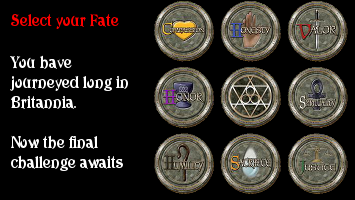
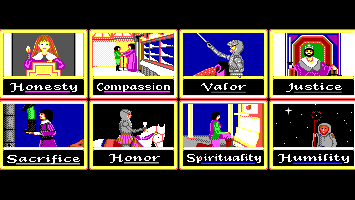
New select class

diff --git a/web/js/SelectClass.js b/web/js/SelectClass.js
@@ -8,28 +8,24 @@ SelectClass.prototype.step = function(){
 	if (game.getKeyPressed(13) || game.getMouseButtonPressed()){
 		var mouse = game.mouse;
 		
-		if (game.mouse.a >= 154 && game.mouse.a < 214 && game.mouse.b >= 1){
-			if (game.mouse.b < 61){
-				playerS.setVirtue("Compassion");
-			}else if (game.mouse.b >= 67 && game.mouse.b < 127){
-				playerS.setVirtue("Honor");
-			}else if (game.mouse.b >= 133 && game.mouse.b < 193){
-				playerS.setVirtue("Humility");
-			}
-		}else if (game.mouse.a >= 221 && game.mouse.a < 280 && game.mouse.b >= 1){
-			if (game.mouse.b < 61){
+		if (game.mouse.b >= 28 && game.mouse.b < 100){
+			if (game.mouse.a <= 88)
 				playerS.setVirtue("Honesty");
-			}else if (game.mouse.b >= 133 && game.mouse.b < 193){
-				playerS.setVirtue("Sacrifice");
-			}
-		}else if (game.mouse.a >= 288 && game.mouse.a < 347 && game.mouse.b >= 1){
-			if (game.mouse.b < 61){
+			else if (game.mouse.a <= 178)
+				playerS.setVirtue("Compassion");
+			else if (game.mouse.a <= 268)
 				playerS.setVirtue("Valor");
-			}else if (game.mouse.b >= 67 && game.mouse.b < 127){
-				playerS.setVirtue("Spirituality");
-			}else if (game.mouse.b >= 133 && game.mouse.b < 193){
+			else
 				playerS.setVirtue("Justice");
-			}
+		}else if (game.mouse.b >= 100 && game.mouse.b < 170){
+			if (game.mouse.a <= 88)
+				playerS.setVirtue("Sacrifice");
+			else if (game.mouse.a <= 178)
+				playerS.setVirtue("Honor");
+			else if (game.mouse.a <= 268)
+				playerS.setVirtue("Spirituality");
+			else
+				playerS.setVirtue("Humility");
 		}
 		
 		if (playerS.virtue != null){
